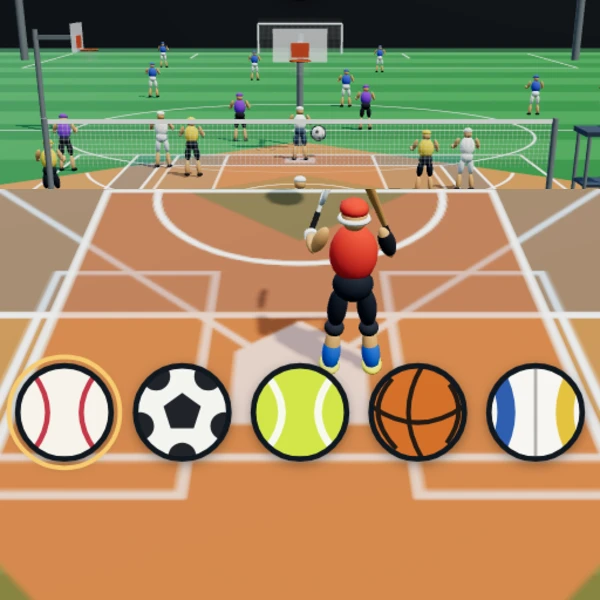
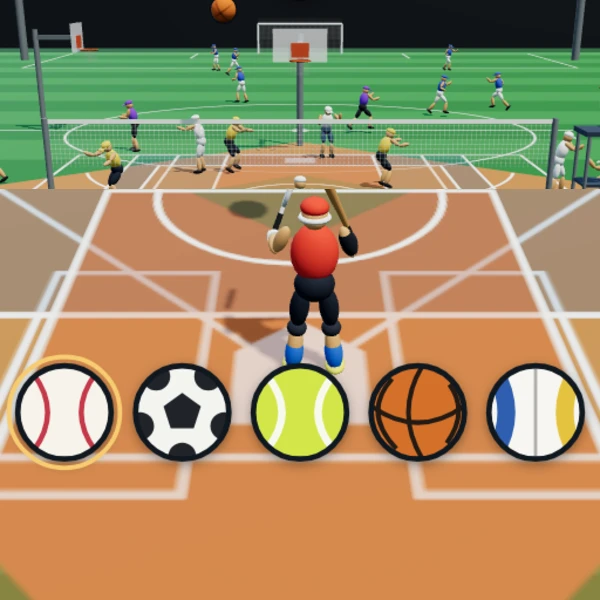
同時球技5種: 奥の人たちを競技らしく動かす
立っているだけだったのを、持ち場のまわりを行き来させ、競技ごとの構えを足した。
走っているあいだだけ進む向きへ体を向け、それ以外は打つ人のほうを見ている。

- 野球は腰を落としてグラブを前へ、小さく足踏み
- サッカーは大きく走り回る
- テニスは小刻みに跳ねて構える
- バスケは片手で球をつく動き
- バレーは低く構えて、ときどき跳ぶ
- 選ぶ画面でも動くよう、絵だけの時計を別に持たせた
- 持ちものが無い人は、向きの入れ直しを省いて軽くした

制作中の固定リンクも doji5-20260920132? に更新。

diff --git a/games/_doji5/scene.js b/games/_doji5/scene.js
@@ -302,7 +302,7 @@ var ZDoji5Scene = (function () {
     worn.yakyu = worn.yakyu.concat(batParts);
     worn.tennis = worn.tennis.concat(racketParts);
     scene.add(root);
-    return { root: root, parts: parts, worn: worn };
+    return { root: root, parts: parts, worn: worn, holdsItem: !!(opt.bat || opt.racket) };
   }
 
   /* ============ 舞台 ============ */
@@ -556,7 +556,9 @@ var ZDoji5Scene = (function () {
       var u = UNIFORM[e[0]];
       var a = makeAthlete(self.scene, { shirt: u[0], pants: u[1] });
       a.root.position.set(e[1], 0, e[2]);
-      a.root.rotation.y = Math.PI + (e[1] > 0 ? -.3 : .3);
+      a.sport = e[0]; a.home = [e[1], e[2]];
+      a.face = Math.PI + (e[1] > 0 ? -.3 : .3);            /* ふだんは打つ人のほう */
+      a.root.rotation.y = a.face;
       a.phase = n * 1.3;
       self.extras.push(a);
       gear[e[0]].push(a.root);
@@ -674,11 +676,74 @@ var ZDoji5Scene = (function () {
         racket = RKT + .5 * up - .3 * hit;
       }
     }
-    /* 腕の形が決まってから、持ちものの向きだけ入れ直す */
-    if (P.wristR || P.wristL) {
+    /* 腕の形が決まってから、持ちものの向きだけ入れ直す（持っている人だけ） */
+    if (a.holdsItem) {
       a.root.updateMatrixWorld(true);
       if (P.wristR) aimItem(P.hips, P.handR, P.wristR, bat, batLean);
       if (P.wristL) aimItem(P.hips, P.handL, P.wristL, racket, racketLean);
+    }
+  };
+
+  /* ============ 奥の人たちの動き ============
+     持ち場のまわりを行き来させ、競技ごとの構えを足す。 */
+  var MOVE = {
+    yakyu:  { speed: .50, rx: 1.0, rz: .6 },
+    soccer: { speed: .75, rx: 5.5, rz: 3.4 },
+    tennis: { speed: 1.00, rx: 2.4, rz: 1.0 },
+    basket: { speed: .90, rx: 3.6, rz: 2.2 },
+    volley: { speed: 1.10, rx: 1.8, rz: .9 }
+  };
+  Scene.prototype.idle = function (a, t) {
+    var P = a.parts, ph = a.phase, m = MOVE[a.sport] || MOVE.yakyu;
+    this.pose(a, null, 0, t + ph);
+    var u = t * m.speed + ph;
+    var vx = Math.cos(u) * m.rx * m.speed;
+    var vz = Math.cos(u * .7 + 1.3) * m.rz * m.speed * .7;
+    var sp = Math.sqrt(vx * vx + vz * vz);
+    a.root.position.x = a.home[0] + Math.sin(u) * m.rx;
+    a.root.position.z = a.home[1] + Math.sin(u * .7 + 1.3) * m.rz;
+    if (sp > .9) a.face = Math.atan2(vx, vz);              /* 走っているあいだだけ向きを変える */
+    a.root.rotation.y = a.face;
+
+    /* 足取り。速いほど大きく振る */
+    var swing = Math.min(1, sp / 2.2), step = t * (4.5 + sp) + ph * 2;
+    var lift = Math.sin(step);
+    a.root.position.y = Math.abs(lift) * .07 * swing;
+    P.hipL.rotation.x += lift * .75 * swing;
+    P.hipR.rotation.x += -lift * .75 * swing;
+    P.kneeL.rotation.x += Math.max(0, -lift) * .85 * swing;
+    P.kneeR.rotation.x += Math.max(0, lift) * .85 * swing;
+    P.shoulderL.rotation.x += -lift * .8 * swing;
+    P.shoulderR.rotation.x += lift * .8 * swing;
+
+    /* 競技ごとの構え */
+    if (a.sport === 'yakyu') {                             /* 腰を落としてグラブを前へ */
+      P.torso.rotation.x += .22;
+      P.hipL.rotation.x += -.3; P.hipR.rotation.x += -.3;
+      P.kneeL.rotation.x += .45; P.kneeR.rotation.x += .45;
+      P.shoulderL.rotation.x += -.7; P.elbowL.rotation.x += -.5;
+      P.shoulderR.rotation.x += -.4;
+    } else if (a.sport === 'basket') {                     /* 片手でつく */
+      var d = Math.sin(t * 6 + ph * 3);
+      P.shoulderR.rotation.x += -.9 + d * .45;
+      P.elbowR.rotation.x += .55;
+      P.shoulderL.rotation.z += -.5;
+      P.torso.rotation.x += .12;
+    } else if (a.sport === 'tennis') {                     /* 小刻みに跳ねて構える */
+      a.root.position.y += Math.abs(Math.sin(t * 3.4 + ph)) * .09;
+      P.shoulderL.rotation.x += -.9; P.shoulderR.rotation.x += -.7;
+      P.elbowL.rotation.x += .5; P.elbowR.rotation.x += .5;
+      P.torso.rotation.x += .16;
+    } else if (a.sport === 'volley') {                     /* 低く構えて、ときどき跳ぶ */
+      var jump = Math.max(0, Math.sin(t * 1.3 + ph * 2) - .82) / .18;
+      a.root.position.y += jump * .55;
+      P.torso.rotation.x += .3 - jump * .5;
+      P.hipL.rotation.x += -.45; P.hipR.rotation.x += -.45;
+      P.kneeL.rotation.x += .7; P.kneeR.rotation.x += .7;
+      P.shoulderL.rotation.x += -1.1 - jump * 1.8; P.shoulderR.rotation.x += -1.1 - jump * 1.8;
+      P.elbowL.rotation.x += .9; P.elbowR.rotation.x += .9;
+    } else {                                               /* サッカーは走るだけ */
+      P.torso.rotation.x += .1 * swing;
     }
   };
 
@@ -707,8 +772,7 @@ var ZDoji5Scene = (function () {
     this.posePitcher(snap.pitch, t);
     this.extras.forEach(function (a) {
       if (!a.root.visible) return;                       /* 出ていない競技の人は動かさない */
-      self.pose(a, null, 0, t + a.phase);
-      a.root.position.y = Math.abs(Math.sin(t * 2.4 + a.phase)) * .05;
+      self.idle(a, t);
     });
 
     /* 球を並べる。余ったものは隠す */

diff --git a/preview/scene.js b/preview/scene.js
@@ -302,7 +302,7 @@ var ZDoji5Scene = (function () {
     worn.yakyu = worn.yakyu.concat(batParts);
     worn.tennis = worn.tennis.concat(racketParts);
     scene.add(root);
-    return { root: root, parts: parts, worn: worn };
+    return { root: root, parts: parts, worn: worn, holdsItem: !!(opt.bat || opt.racket) };
   }
 
   /* ============ 舞台 ============ */
@@ -556,7 +556,9 @@ var ZDoji5Scene = (function () {
       var u = UNIFORM[e[0]];
       var a = makeAthlete(self.scene, { shirt: u[0], pants: u[1] });
       a.root.position.set(e[1], 0, e[2]);
-      a.root.rotation.y = Math.PI + (e[1] > 0 ? -.3 : .3);
+      a.sport = e[0]; a.home = [e[1], e[2]];
+      a.face = Math.PI + (e[1] > 0 ? -.3 : .3);            /* ふだんは打つ人のほう */
+      a.root.rotation.y = a.face;
       a.phase = n * 1.3;
       self.extras.push(a);
       gear[e[0]].push(a.root);
@@ -674,11 +676,74 @@ var ZDoji5Scene = (function () {
         racket = RKT + .5 * up - .3 * hit;
       }
     }
-    /* 腕の形が決まってから、持ちものの向きだけ入れ直す */
-    if (P.wristR || P.wristL) {
+    /* 腕の形が決まってから、持ちものの向きだけ入れ直す（持っている人だけ） */
+    if (a.holdsItem) {
       a.root.updateMatrixWorld(true);
       if (P.wristR) aimItem(P.hips, P.handR, P.wristR, bat, batLean);
       if (P.wristL) aimItem(P.hips, P.handL, P.wristL, racket, racketLean);
+    }
+  };
+
+  /* ============ 奥の人たちの動き ============
+     持ち場のまわりを行き来させ、競技ごとの構えを足す。 */
+  var MOVE = {
+    yakyu:  { speed: .50, rx: 1.0, rz: .6 },
+    soccer: { speed: .75, rx: 5.5, rz: 3.4 },
+    tennis: { speed: 1.00, rx: 2.4, rz: 1.0 },
+    basket: { speed: .90, rx: 3.6, rz: 2.2 },
+    volley: { speed: 1.10, rx: 1.8, rz: .9 }
+  };
+  Scene.prototype.idle = function (a, t) {
+    var P = a.parts, ph = a.phase, m = MOVE[a.sport] || MOVE.yakyu;
+    this.pose(a, null, 0, t + ph);
+    var u = t * m.speed + ph;
+    var vx = Math.cos(u) * m.rx * m.speed;
+    var vz = Math.cos(u * .7 + 1.3) * m.rz * m.speed * .7;
+    var sp = Math.sqrt(vx * vx + vz * vz);
+    a.root.position.x = a.home[0] + Math.sin(u) * m.rx;
+    a.root.position.z = a.home[1] + Math.sin(u * .7 + 1.3) * m.rz;
+    if (sp > .9) a.face = Math.atan2(vx, vz);              /* 走っているあいだだけ向きを変える */
+    a.root.rotation.y = a.face;
+
+    /* 足取り。速いほど大きく振る */
+    var swing = Math.min(1, sp / 2.2), step = t * (4.5 + sp) + ph * 2;
+    var lift = Math.sin(step);
+    a.root.position.y = Math.abs(lift) * .07 * swing;
+    P.hipL.rotation.x += lift * .75 * swing;
+    P.hipR.rotation.x += -lift * .75 * swing;
+    P.kneeL.rotation.x += Math.max(0, -lift) * .85 * swing;
+    P.kneeR.rotation.x += Math.max(0, lift) * .85 * swing;
+    P.shoulderL.rotation.x += -lift * .8 * swing;
+    P.shoulderR.rotation.x += lift * .8 * swing;
+
+    /* 競技ごとの構え */
+    if (a.sport === 'yakyu') {                             /* 腰を落としてグラブを前へ */
+      P.torso.rotation.x += .22;
+      P.hipL.rotation.x += -.3; P.hipR.rotation.x += -.3;
+      P.kneeL.rotation.x += .45; P.kneeR.rotation.x += .45;
+      P.shoulderL.rotation.x += -.7; P.elbowL.rotation.x += -.5;
+      P.shoulderR.rotation.x += -.4;
+    } else if (a.sport === 'basket') {                     /* 片手でつく */
+      var d = Math.sin(t * 6 + ph * 3);
+      P.shoulderR.rotation.x += -.9 + d * .45;
+      P.elbowR.rotation.x += .55;
+      P.shoulderL.rotation.z += -.5;
+      P.torso.rotation.x += .12;
+    } else if (a.sport === 'tennis') {                     /* 小刻みに跳ねて構える */
+      a.root.position.y += Math.abs(Math.sin(t * 3.4 + ph)) * .09;
+      P.shoulderL.rotation.x += -.9; P.shoulderR.rotation.x += -.7;
+      P.elbowL.rotation.x += .5; P.elbowR.rotation.x += .5;
+      P.torso.rotation.x += .16;
+    } else if (a.sport === 'volley') {                     /* 低く構えて、ときどき跳ぶ */
+      var jump = Math.max(0, Math.sin(t * 1.3 + ph * 2) - .82) / .18;
+      a.root.position.y += jump * .55;
+      P.torso.rotation.x += .3 - jump * .5;
+      P.hipL.rotation.x += -.45; P.hipR.rotation.x += -.45;
+      P.kneeL.rotation.x += .7; P.kneeR.rotation.x += .7;
+      P.shoulderL.rotation.x += -1.1 - jump * 1.8; P.shoulderR.rotation.x += -1.1 - jump * 1.8;
+      P.elbowL.rotation.x += .9; P.elbowR.rotation.x += .9;
+    } else {                                               /* サッカーは走るだけ */
+      P.torso.rotation.x += .1 * swing;
     }
   };
 
@@ -707,8 +772,7 @@ var ZDoji5Scene = (function () {
     this.posePitcher(snap.pitch, t);
     this.extras.forEach(function (a) {
       if (!a.root.visible) return;                       /* 出ていない競技の人は動かさない */
-      self.pose(a, null, 0, t + a.phase);
-      a.root.position.y = Math.abs(Math.sin(t * 2.4 + a.phase)) * .05;
+      self.idle(a, t);
     });
 
     /* 球を並べる。余ったものは隠す */

diff --git a/preview/index.html b/preview/index.html
@@ -3,7 +3,7 @@
 <head>
 <meta charset="UTF-8">
 <meta name="robots" content="noindex,nofollow">
-<meta name="preview-version" content="doji5-20260920131136">
+<meta name="preview-version" content="doji5-20260920131700">
 <meta name="viewport" content="width=device-width, initial-scale=1, maximum-scale=1, user-scalable=no">
 <title>同時球技5種</title>
 <style>
@@ -27,12 +27,12 @@
   <button id="start" type="button">START</button>
   <button id="share-button" type="button" aria-label="Xでシェア" hidden></button>
 </div></div>
-<script src="../games/random-bowling/vendor/three.min.js?v=doji5-20260920131136"></script>
-<script src="./scene.js?v=doji5-20260920131136"></script>
-<script src="../games/share.js?v=doji5-20260920131136"></script>
-<script src="../games/result-actions.js?v=doji5-20260920131136"></script>
-<script src="../games/action-icons.js?v=doji5-20260920131136"></script>
-<script src="../games/pad.js?v=doji5-20260920131136"></script>   <!-- ジョイパッドと、絵の外のタップ -->
+<script src="../games/random-bowling/vendor/three.min.js?v=doji5-20260920131700"></script>
+<script src="./scene.js?v=doji5-20260920131700"></script>
+<script src="../games/share.js?v=doji5-20260920131700"></script>
+<script src="../games/result-actions.js?v=doji5-20260920131700"></script>
+<script src="../games/action-icons.js?v=doji5-20260920131700"></script>
+<script src="../games/pad.js?v=doji5-20260920131700"></script>   <!-- ジョイパッドと、絵の外のタップ -->
 <script>
 /* 同時球技5種。
    野球・サッカー・テニス・バスケ・バレーの球が、ぜんぶ同じ場所へ次々に飛んでくる。
@@ -194,7 +194,7 @@
   var S = { INTRO: "intro", PLAY: "play", RESULT: "result" };
   var state, score, hits, lives, T, held, keyMode = false;
   var balls, nextArrive, lastKinds, act, actT, actKind, shake, flashes, pitchAt, leanX;
-  var flash = {}, cursor = 0;                      /* 押した目印と、キー操作のときの選び位置 */
+  var flash = {}, cursor = 0, animT = 0;           /* 押した目印、キー操作の選び位置、絵の時計 */
   var on = { yakyu: true, soccer: true, tennis: true, basket: true, volley: true };
   function kinds() { return KEYS.filter(function (k) { return on[k]; }); }
 
@@ -273,6 +273,7 @@
     shake = Math.max(0, shake - dt * 4);
     if (act) { actT += dt; if (actT > ACT) act = null; }
     KEYS.forEach(function (k) { if (flash[k] > 0) flash[k] = Math.max(0, flash[k] - dt); });
+    animT += dt;                                   /* 絵だけの時計。選ぶ画面でも奥の人は動く */
     flashes.forEach(function (f) { f.age += dt; });
     flashes = flashes.filter(function (f) { return f.age < .45; });
     if (state !== S.PLAY) return;
@@ -464,7 +465,7 @@
     });
     var pitch = -1;
     if (T - pitchAt > -.55 && T - pitchAt < .55) pitch = (T - pitchAt + .55) / 1.1;
-    return { t: T, balls: list, act: act, actP: act ? actT / ACT : 0, shake: shake, leanX: leanX, pitch: pitch,
+    return { t: animT, balls: list, act: act, actP: act ? actT / ACT : 0, shake: shake, leanX: leanX, pitch: pitch,
              on: kinds().join(",") };
   }
 
@@ -763,10 +764,10 @@
 <script>
 if (document.head && /^(localhost|127\.0\.0\.1)$/.test(location.hostname) && !/[?&]recorder-cli=1(?:&|$)/.test(location.search)) {
   var recorderScript = document.createElement("script");
-  recorderScript.src = "../games/_tools/recorder-ui.js?v=doji5-20260920131136";
+  recorderScript.src = "../games/_tools/recorder-ui.js?v=doji5-20260920131700";
   document.head.appendChild(recorderScript);
 }
 </script>
-<script src="./auto-reload.js?v=doji5-20260920131136"></script>
+<script src="./auto-reload.js?v=doji5-20260920131700"></script>
 </body>
 </html>

diff --git a/games/_doji5/index.html b/games/_doji5/index.html
@@ -192,7 +192,7 @@
   var S = { INTRO: "intro", PLAY: "play", RESULT: "result" };
   var state, score, hits, lives, T, held, keyMode = false;
   var balls, nextArrive, lastKinds, act, actT, actKind, shake, flashes, pitchAt, leanX;
-  var flash = {}, cursor = 0;                      /* 押した目印と、キー操作のときの選び位置 */
+  var flash = {}, cursor = 0, animT = 0;           /* 押した目印、キー操作の選び位置、絵の時計 */
   var on = { yakyu: true, soccer: true, tennis: true, basket: true, volley: true };
   function kinds() { return KEYS.filter(function (k) { return on[k]; }); }
 
@@ -271,6 +271,7 @@
     shake = Math.max(0, shake - dt * 4);
     if (act) { actT += dt; if (actT > ACT) act = null; }
     KEYS.forEach(function (k) { if (flash[k] > 0) flash[k] = Math.max(0, flash[k] - dt); });
+    animT += dt;                                   /* 絵だけの時計。選ぶ画面でも奥の人は動く */
     flashes.forEach(function (f) { f.age += dt; });
     flashes = flashes.filter(function (f) { return f.age < .45; });
     if (state !== S.PLAY) return;
@@ -462,7 +463,7 @@
     });
     var pitch = -1;
     if (T - pitchAt > -.55 && T - pitchAt < .55) pitch = (T - pitchAt + .55) / 1.1;
-    return { t: T, balls: list, act: act, actP: act ? actT / ACT : 0, shake: shake, leanX: leanX, pitch: pitch,
+    return { t: animT, balls: list, act: act, actP: act ? actT / ACT : 0, shake: shake, leanX: leanX, pitch: pitch,
              on: kinds().join(",") };
   }
 
